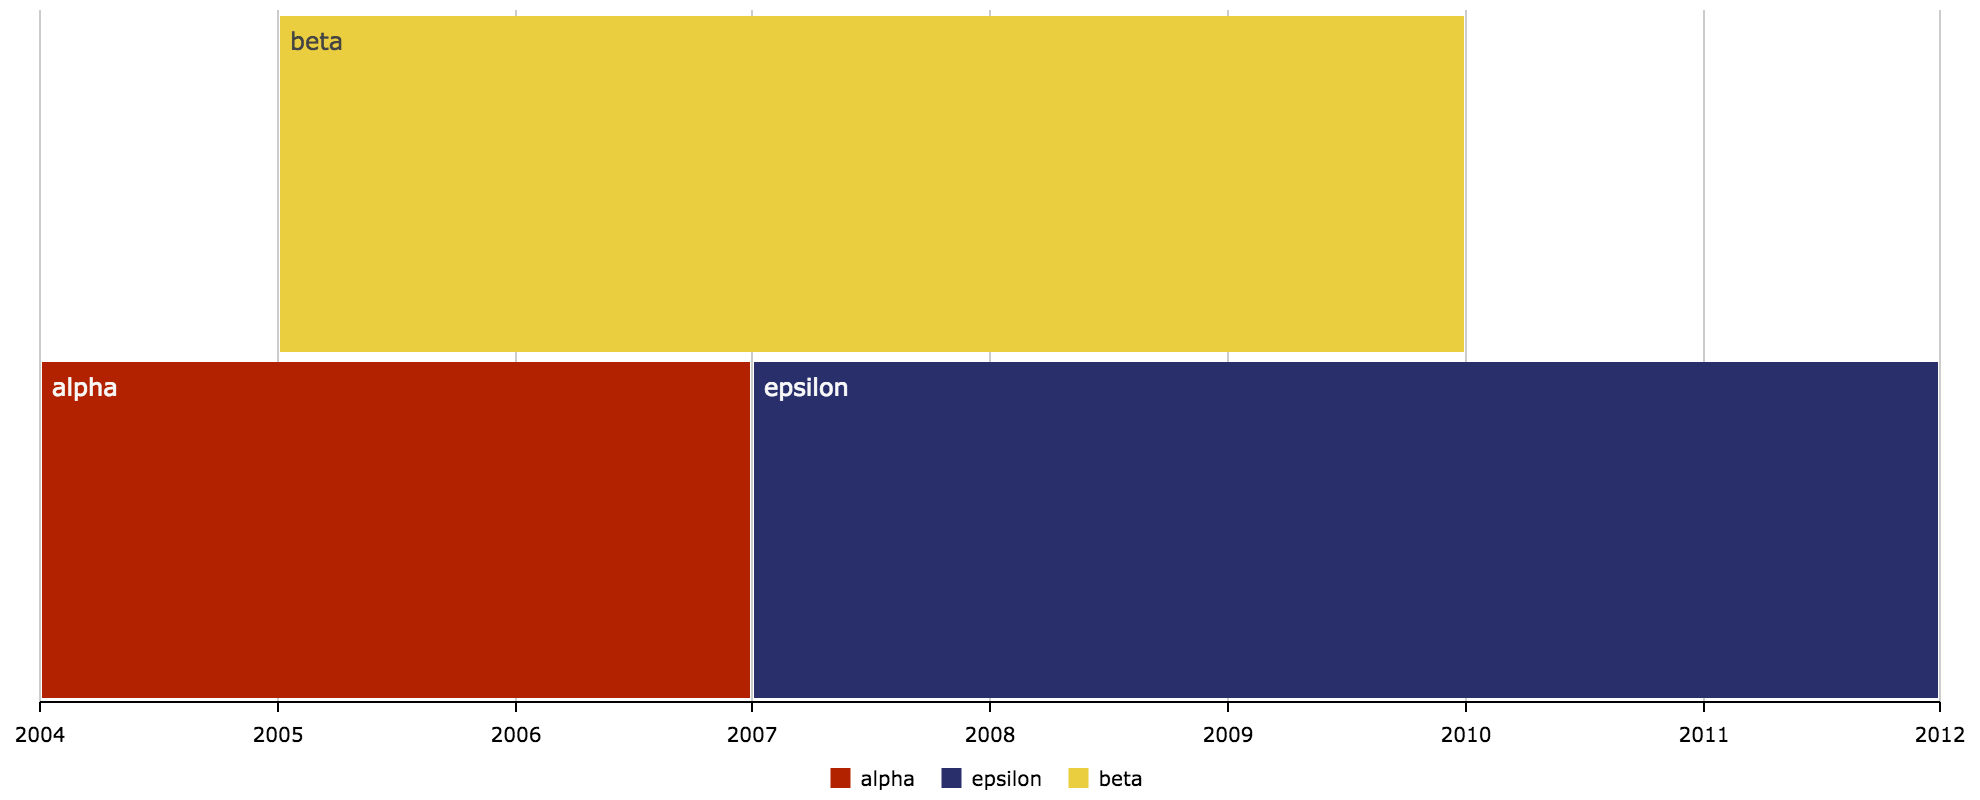
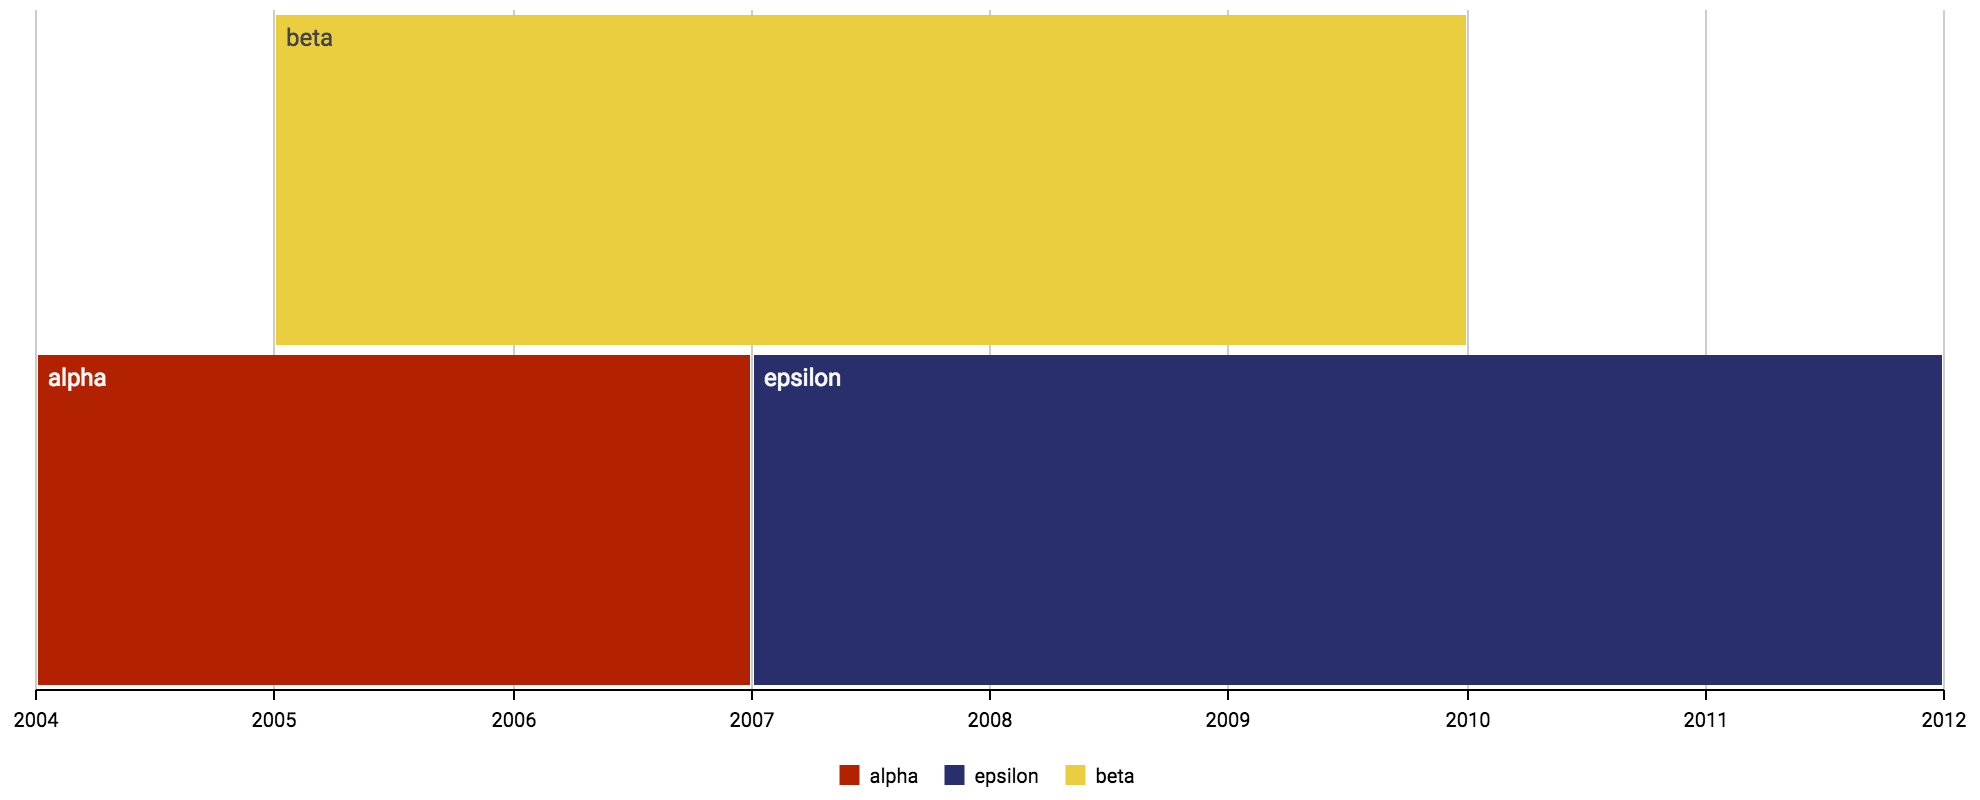
d3plus-priestley examples

Changed region(s): [[0.0, 0.8438, 1.0, 1.0], [0.0, 0.4062, 0.9859, 0.5], [0.1232, 0.0312, 0.1848, 0.0938]]

diff --git a/_examples/d3plus-priestley/getting-started/embed.html b/_examples/d3plus-priestley/getting-started/embed.html
@@ -10,6 +10,7 @@
 
     body {
       margin: 0;
+      overflow: hidden;
     }
 
   </style>

diff --git a/_examples/d3plus-priestley/grouping/embed.html b/_examples/d3plus-priestley/grouping/embed.html
@@ -10,6 +10,7 @@
 
     body {
       margin: 0;
+      overflow: hidden;
     }
 
   </style>

diff --git a/_examples/d3plus-priestley/getting-started/index.md b/_examples/d3plus-priestley/getting-started/index.md
@@ -1,10 +1,12 @@
 ---
-title: Getting Started
+title: Simple Priestley Diagram
 width: 990
 height: 400
+time: 1504130403497
+date: August 30, 2017
 ---
 
-# Getting Started
+# Simple Priestley Diagram
 
 Priestly Timelines (named after 18th-century English theologian [Joseph Priestly](https://en.wikipedia.org/wiki/Joseph_Priestley)), show the duration of multiple data points over time by stacking blocks to best fit. Given data with unique IDs and start and end dates:
 

diff --git a/_examples/d3plus-priestley/grouping/index.md b/_examples/d3plus-priestley/grouping/index.md
@@ -1,10 +1,12 @@
 ---
-title: Grouping into Lanes
+title: Grouping Priestley Bars into Lanes
 width: 990
 height: 400
+time: 1504130403497
+date: August 30, 2017
 ---
 
-# Grouping into Lanes
+# Grouping Priestley Bars into Lanes
 
 If the data provided has inherent groupings, as such:
 
